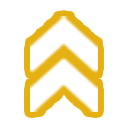
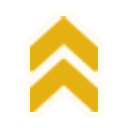
feat(ui): replace every up arrow with the delivered uparrow_icon
icon_chevron_up.png is replaced in place (same 128x128), so the day summary,
win screen and objective strip pick it up; the Atur Jadwal effect meter and
legend drop arrow_up.svg for it. atur_jadwal.tscn also carries the editor's
own uid/unique_id stamping that was already pending in the tree.

diff --git a/docs/superpowers/DEBT.md b/docs/superpowers/DEBT.md
@@ -45,8 +45,7 @@ sun, moon, three clouds, star field and rain streak; the avatar rings in
 `SchoolDay/Avatar/`; the weekday motif tiles in `SchoolDay/Motifs/`; the event
 band's `caution_tape.svg`; and `night_windows.png`, generated from
 `transition_foreground.png` -- regenerate it if that painting changes),
-the 2026-09-24 picker icons (`Assets/Images/UI/Picker/arrow_up.svg`,
-`arrow_down.svg`, `pip_coin.svg`, `badge_check.svg`; hand-drawn vectors in the
+the 2026-09-24 picker icons (`Assets/Images/UI/Picker/arrow_down.svg`, `pip_coin.svg`, `badge_check.svg`; hand-drawn vectors in the
 token colours, sized to draw at 1:1),
 the 2026-09-11 Koperasi rework set: `Assets/Images/Shop/UI/icon_keranjang.svg`,
 `icon_keranjang_kosong.svg`, `tray_dots.png` (this last must
